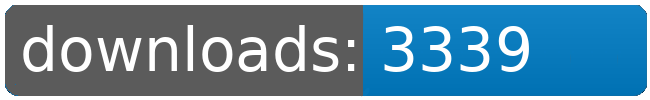
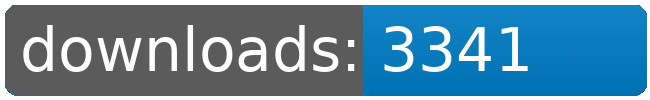
dl log written

Changed region(s): [[0.7077, 0.24, 0.8308, 0.72]]

diff --git a/README.md b/README.md
@@ -98,8 +98,8 @@
 		<td>3281</td>
 		<td>3297</td>
 		<td>3325</td>
-		<td>3339</td>
-		<td>+ 14</td>
+		<td>3341</td>
+		<td>+ 16</td>
 	</tr>
 	<tr>
 		<td></td>
@@ -109,8 +109,8 @@
 		<td></td>
 		<td></td>
 		<td></td>
-		<td>29198</td>
-		<td>123</td>
+		<td>29200</td>
+		<td>125</td>
 	</tr>
 </table>
 </sub></sup>
@@ -212,8 +212,8 @@
 		<td>3281</td>
 		<td>3297</td>
 		<td>3325</td>
-		<td>3339</td>
-		<td>+ 14</td>
+		<td>3341</td>
+		<td>+ 16</td>
 	</tr>
 	<tr>
 		<td></td>
@@ -223,8 +223,8 @@
 		<td></td>
 		<td></td>
 		<td></td>
-		<td>29198</td>
-		<td>123</td>
+		<td>29200</td>
+		<td>125</td>
 	</tr>
 </table>
 </sub></sup>
